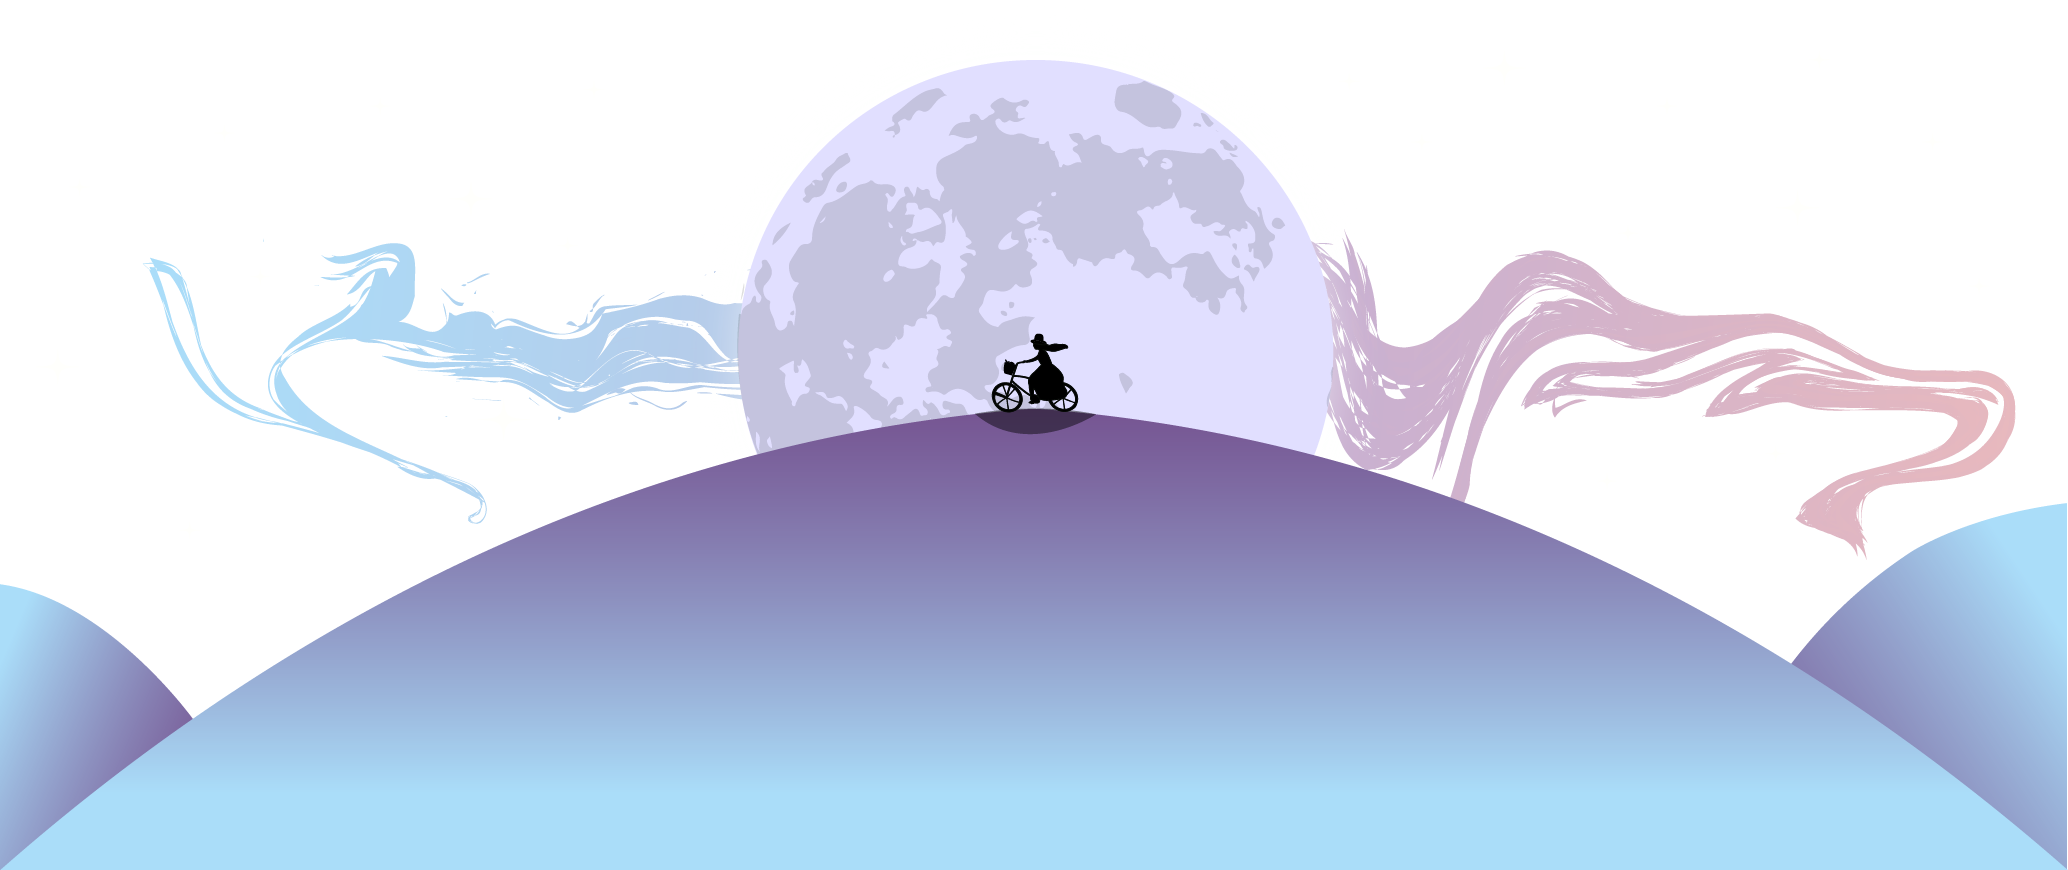
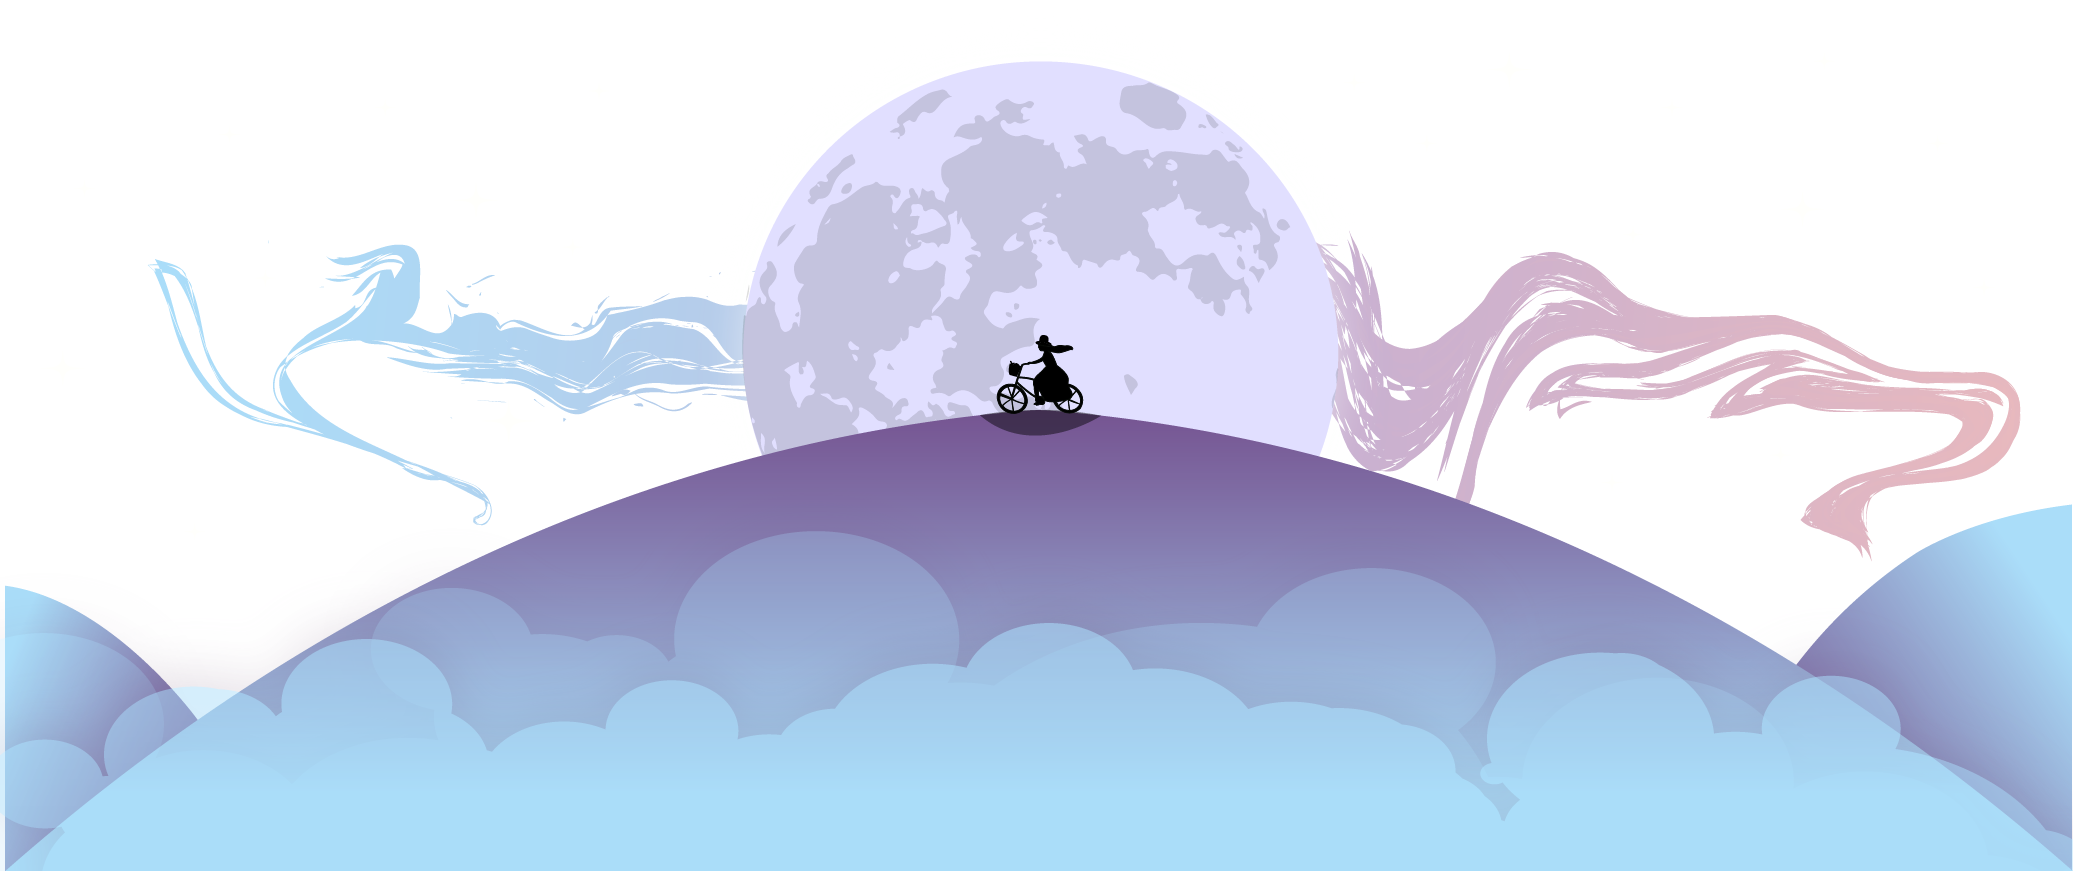
42 commit - change album bg and title position

diff --git a/public/css/styles.css b/public/css/styles.css
@@ -20,6 +20,7 @@ nav {
   align-items: flex-end;
   justify-content: space-between;
   background-color: #c8b0d1;
+  z-index: 10;
 }
 
 nav img {
@@ -65,7 +66,7 @@ h1 {
   display: grid;
   grid-template-columns: 40% 60%;
   position: relative;
-  height: 75vh;
+  height: 82vh;
 }
 
 .narrow {
@@ -78,7 +79,8 @@ h1 {
   width: 100%;
   position: absolute;
   bottom: 0;
-  z-index: 5;
+  z-index: 1;
+  max-height: 95vh;
 }
 
 .big-logo-name {
@@ -263,8 +265,10 @@ h1 {
   flex-direction: column;
   justify-content: flex-start;
   align-items: center;
-
-  background: linear-gradient(0deg, #6a5174 0%, #ebdbf1b7 50%, #ebdbf1b7 100%);
+  background: linear-gradient(0deg, #6a5174 0%, #ebdbf1b7 50%, #ffffffb7 100%),
+    url("/images/bg-album.png");
+  background-blend-mode: multiply;
+  background-size: cover;
   /*background: linear-gradient(0deg, #c9eafca2 0%, #c9eafca2 5%, #ebdbf1b7 100%);*/
   /*background: linear-gradient(0deg, #c9eafca2 0%, #6b397db7 100%);*/
 }
@@ -293,7 +297,7 @@ h1 {
 .my-work-title {
   text-align: center;
   box-sizing: border-box;
-  width: 100%;
+  width: 80%;
   padding-top: 50px;
   z-index: 8;
 }
@@ -309,8 +313,8 @@ h1 {
   grid-template-columns: auto auto auto auto;
   grid-template-rows: auto auto auto;
   margin-top: 10%;
-  width: 85%;
-  min-height: 55%;
+  width: 75%;
+  min-height: 50%;
   gap: 10px;
   z-index: 1;
 }

diff --git a/public/css/styles_mobile.css b/public/css/styles_mobile.css
@@ -267,7 +267,11 @@ h1 {
   flex-direction: column;
   justify-content: flex-start;
   align-items: center;
-  background: linear-gradient(0deg, #6a5174 0%, #ebdbf1b7 50%, #ebdbf1b7 100%);
+  /* background: linear-gradient(0deg, #6a5174 0%, #ebdbf1b7 50%, #ebdbf1b7 100%);*/
+  background: linear-gradient(0deg, #6a5174 0%, #ebdbf1b7 50%, #ffffffb7 100%),
+    url("/images/bg-album.png");
+  background-blend-mode: multiply;
+  background-size: cover;
 }
 
 .my-work-topimg-1 {
